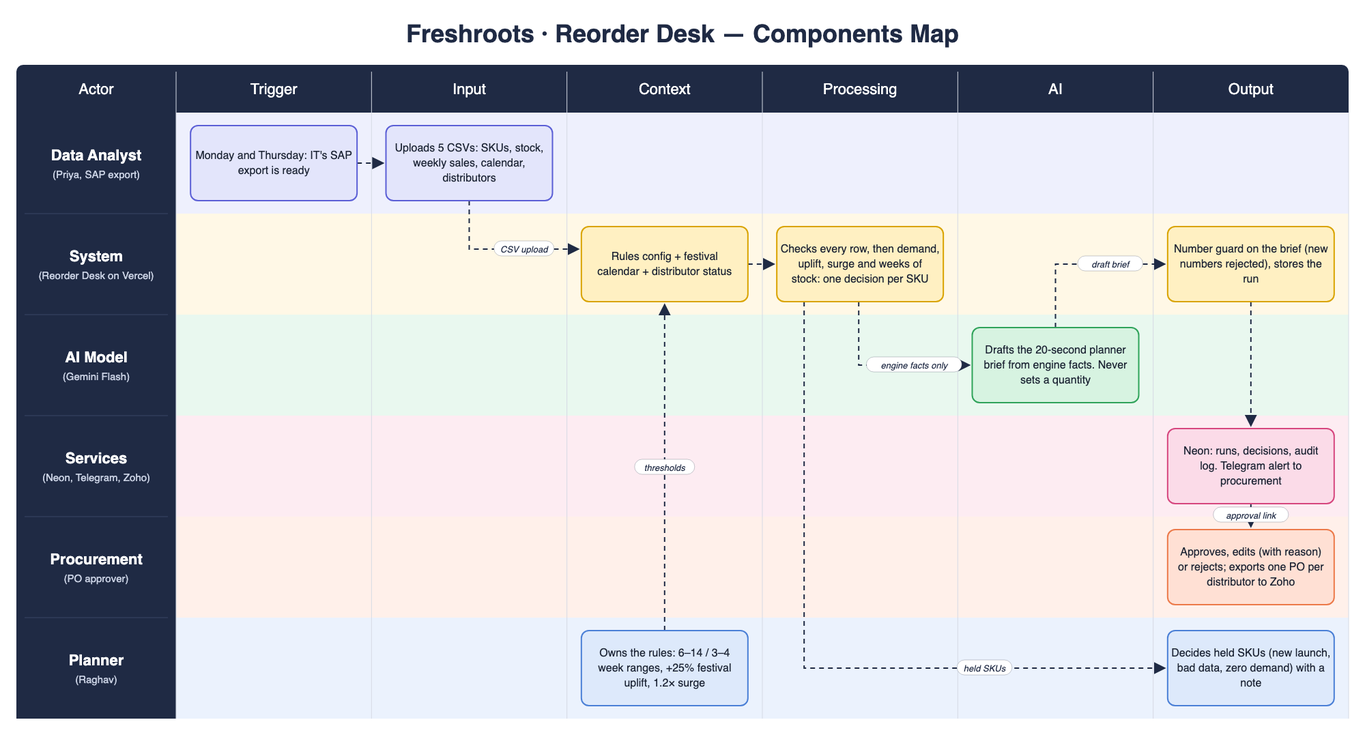
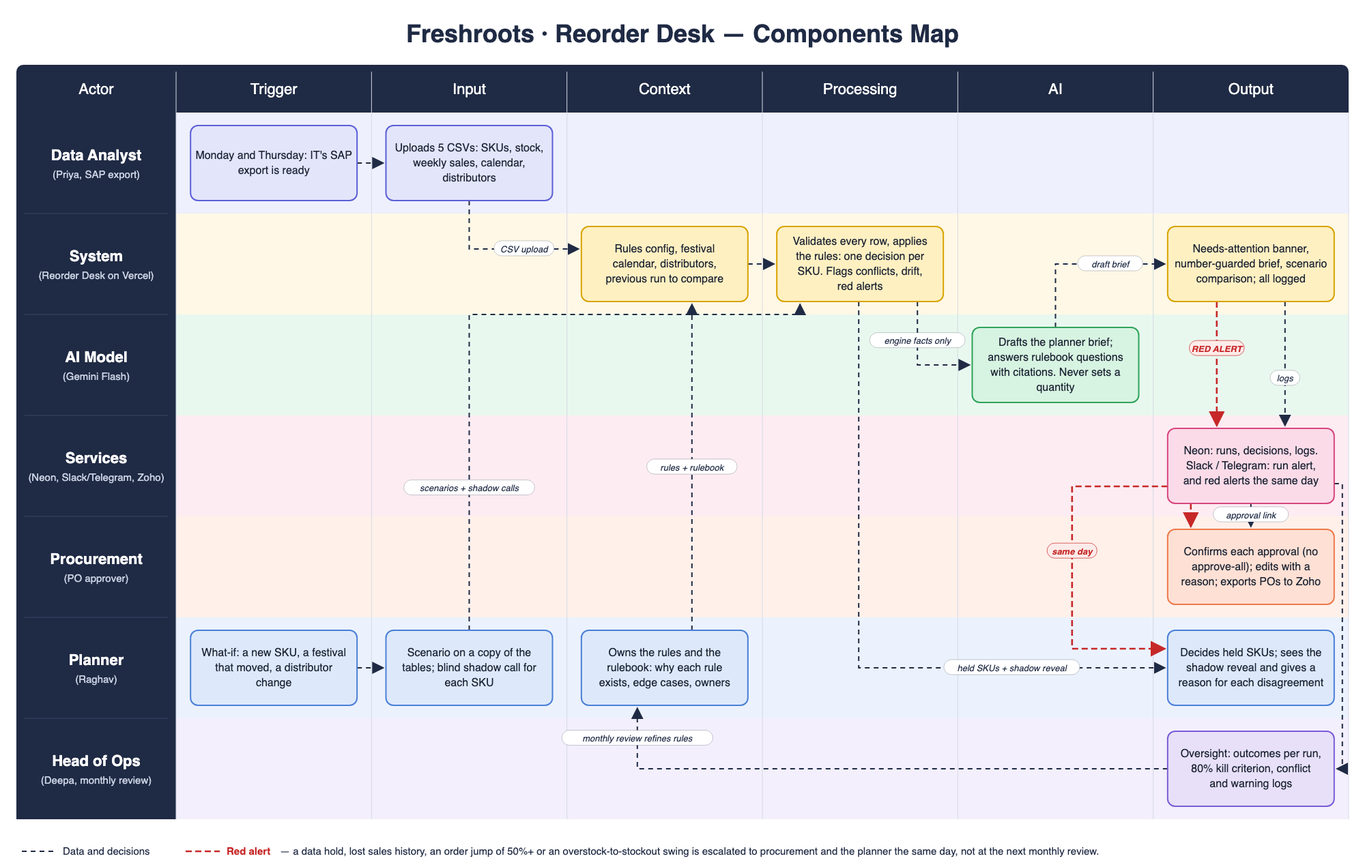
Update components map; lead alert messages with red alerts
Components map: adds Head of Ops (Oversight, 80% kill criterion, logs),
the planner's scenario and blind shadow-call inputs, the rulebook as
context, Gemini answering rulebook questions, and a red-alert escalation
path (data holds, lost history, 50%+ order jumps) to procurement and
the planner the same day, with a legend.

Procurement messages now start with a RED ALERT block listing data holds
and high-severity early warnings, matching the map.

diff --git a/deliverables/components_map.html b/deliverables/components_map.html
@@ -1,6 +1,6 @@
-<!doctype html><html><head><meta charset="utf-8"><title>Reorder Desk Components Map</title><style>html,body{margin:0;background:#fff}</style></head><body><svg xmlns="http://www.w3.org/2000/svg" viewBox="0 0 2000 1077" width="2000" height="1077" font-family="Segoe UI, Inter, Helvetica, Arial, sans-serif">
-<defs><marker id="head" viewBox="0 0 10 10" refX="9" refY="5" markerWidth="9" markerHeight="9" orient="auto-start-reverse"><path d="M0,0 L10,5 L0,10 z" fill="#1f2a44"/></marker></defs>
-<rect width="2000" height="1077" fill="#ffffff"/>
+<!doctype html><html><head><meta charset="utf-8"><title>Reorder Desk Components Map</title><style>html,body{margin:0;background:#fff}</style></head><body><svg xmlns="http://www.w3.org/2000/svg" viewBox="0 0 2000 1271" width="2000" height="1271" font-family="Segoe UI, Inter, Helvetica, Arial, sans-serif">
+<defs><marker id="head" viewBox="0 0 10 10" refX="9" refY="5" markerWidth="9" markerHeight="9" orient="auto-start-reverse"><path d="M0,0 L10,5 L0,10 z" fill="#1f2a44"/></marker><marker id="head-red" viewBox="0 0 10 10" refX="9" refY="5" markerWidth="9" markerHeight="9" orient="auto-start-reverse"><path d="M0,0 L10,5 L0,10 z" fill="#c62828"/></marker></defs>
+<rect width="2000" height="1271" fill="#ffffff"/>
 <text x="1000.0" y="62" text-anchor="middle" font-size="36" font-weight="700" fill="#1f2a44">Freshroots · Reorder Desk — Components Map</text>
 <rect x="258" y="165" width="1718" height="148" fill="#eef0fd"/>
 <rect x="24" y="165" width="234" height="148" fill="#1f2a44"/>
@@ -19,7 +19,7 @@
 <rect x="258" y="609" width="1718" height="148" fill="#fdecf2"/>
 <rect x="24" y="609" width="234" height="148" fill="#1f2a44"/>
 <text x="141.0" y="679.0" text-anchor="middle" font-size="22" font-weight="700" fill="#ffffff">Services</text>
-<text x="141.0" y="705.0" text-anchor="middle" font-size="15" fill="#c9d1e3">(Neon, Telegram, Zoho)</text>
+<text x="141.0" y="705.0" text-anchor="middle" font-size="15" fill="#c9d1e3">(Neon, Slack/Telegram, Zoho)</text>
 <line x1="36" x2="246" y1="609" y2="609" stroke="#3a4766"/>
 <rect x="258" y="757" width="1718" height="148" fill="#fff0ea"/>
 <rect x="24" y="757" width="234" height="148" fill="#1f2a44"/>
@@ -31,31 +31,43 @@
 <text x="141.0" y="975.0" text-anchor="middle" font-size="22" font-weight="700" fill="#ffffff">Planner</text>
 <text x="141.0" y="1001.0" text-anchor="middle" font-size="15" fill="#c9d1e3">(Raghav)</text>
 <line x1="36" x2="246" y1="905" y2="905" stroke="#3a4766"/>
+<rect x="258" y="1053" width="1718" height="148" fill="#f3effc"/>
+<rect x="24" y="1053" width="234" height="148" fill="#1f2a44"/>
+<text x="141.0" y="1123.0" text-anchor="middle" font-size="22" font-weight="700" fill="#ffffff">Head of Ops</text>
+<text x="141.0" y="1149.0" text-anchor="middle" font-size="15" fill="#c9d1e3">(Deepa, monthly review)</text>
+<line x1="36" x2="246" y1="1053" y2="1053" stroke="#3a4766"/>
 <rect x="24" y="95" width="1952" height="70" rx="10" fill="#1f2a44"/>
 <rect x="24" y="153" width="1952" height="12" fill="#1f2a44"/>
 <text x="141.0" y="138" text-anchor="middle" font-size="22" fill="#ffffff">Actor</text>
 <text x="401.16666666666663" y="138" text-anchor="middle" font-size="22" fill="#ffffff">Trigger</text>
-<line x1="258.0" x2="258.0" y1="105" y2="1053" stroke="#d5dae4" stroke-width="1"/>
+<line x1="258.0" x2="258.0" y1="105" y2="1201" stroke="#d5dae4" stroke-width="1"/>
 <text x="687.4999999999999" y="138" text-anchor="middle" font-size="22" fill="#ffffff">Input</text>
-<line x1="544.3333333333333" x2="544.3333333333333" y1="105" y2="1053" stroke="#d5dae4" stroke-width="1"/>
+<line x1="544.3333333333333" x2="544.3333333333333" y1="105" y2="1201" stroke="#d5dae4" stroke-width="1"/>
 <text x="973.8333333333333" y="138" text-anchor="middle" font-size="22" fill="#ffffff">Context</text>
-<line x1="830.6666666666666" x2="830.6666666666666" y1="105" y2="1053" stroke="#d5dae4" stroke-width="1"/>
+<line x1="830.6666666666666" x2="830.6666666666666" y1="105" y2="1201" stroke="#d5dae4" stroke-width="1"/>
 <text x="1260.1666666666667" y="138" text-anchor="middle" font-size="22" fill="#ffffff">Processing</text>
-<line x1="1117.0" x2="1117.0" y1="105" y2="1053" stroke="#d5dae4" stroke-width="1"/>
+<line x1="1117.0" x2="1117.0" y1="105" y2="1201" stroke="#d5dae4" stroke-width="1"/>
 <text x="1546.5" y="138" text-anchor="middle" font-size="22" fill="#ffffff">AI</text>
-<line x1="1403.3333333333333" x2="1403.3333333333333" y1="105" y2="1053" stroke="#d5dae4" stroke-width="1"/>
+<line x1="1403.3333333333333" x2="1403.3333333333333" y1="105" y2="1201" stroke="#d5dae4" stroke-width="1"/>
 <text x="1832.8333333333333" y="138" text-anchor="middle" font-size="22" fill="#ffffff">Output</text>
-<line x1="1689.6666666666665" x2="1689.6666666666665" y1="105" y2="1053" stroke="#d5dae4" stroke-width="1"/>
-<line x1="1976" x2="1976" y1="165" y2="1053" stroke="#d5dae4"/>
+<line x1="1689.6666666666665" x2="1689.6666666666665" y1="105" y2="1201" stroke="#d5dae4" stroke-width="1"/>
+<line x1="1976" x2="1976" y1="165" y2="1201" stroke="#d5dae4"/>
 <path d="M523.2,239.0 L561.5,239.0" fill="none" stroke="#1f2a44" stroke-width="2" stroke-dasharray="7 6" marker-end="url(#head)"/>
-<path d="M687.5,294.0 L687.5,365.0 L847.8,365.0" fill="none" stroke="#1f2a44" stroke-width="2" stroke-dasharray="7 6" marker-end="url(#head)"/><rect x="723.7" y="353.0" width="88.0" height="22" rx="11" fill="#ffffff" stroke="#1f2a44" stroke-opacity=".25"/><text x="767.7" y="369.5" text-anchor="middle" font-size="13" font-style="italic" fill="#1f2a44">CSV upload</text>
-<path d="M973.8,924.0 L973.8,446.0" fill="none" stroke="#1f2a44" stroke-width="2" stroke-dasharray="7 6" marker-end="url(#head)"/><rect x="929.8" y="673.0" width="88.0" height="22" rx="11" fill="#ffffff" stroke="#1f2a44" stroke-opacity=".25"/><text x="973.8" y="689.5" text-anchor="middle" font-size="13" font-style="italic" fill="#1f2a44">thresholds</text>
+<path d="M687.5,294.0 L687.5,365.0 L847.8,365.0" fill="none" stroke="#1f2a44" stroke-width="2" stroke-dasharray="7 6" marker-end="url(#head)"/><rect x="723.7" y="353.0" width="88.0" height="22" rx="11" fill="#ffffff" stroke="#1f2a44" stroke-opacity=".25"/><text x="767.7" y="369.5" text-anchor="middle" font-size="13" font-style="italic" font-weight="400" fill="#1f2a44">CSV upload</text>
 <path d="M1095.8,387.0 L1134.2,387.0" fill="none" stroke="#1f2a44" stroke-width="2" stroke-dasharray="7 6" marker-end="url(#head)"/>
-<path d="M1258.2,442.0 L1258.2,535.0 L1420.5,535.0" fill="none" stroke="#1f2a44" stroke-width="2" stroke-dasharray="7 6" marker-end="url(#head)"/><rect x="1269.4" y="523.0" width="139.8" height="22" rx="11" fill="#ffffff" stroke="#1f2a44" stroke-opacity=".25"/><text x="1339.3" y="539.5" text-anchor="middle" font-size="13" font-style="italic" fill="#1f2a44">engine facts only</text>
-<path d="M1546.5,480.0 L1546.5,387.0 L1706.8,387.0" fill="none" stroke="#1f2a44" stroke-width="2" stroke-dasharray="7 6" marker-end="url(#head)"/><rect x="1579.0" y="375.0" width="95.4" height="22" rx="11" fill="#ffffff" stroke="#1f2a44" stroke-opacity=".25"/><text x="1626.7" y="391.5" text-anchor="middle" font-size="13" font-style="italic" fill="#1f2a44">draft brief</text>
-<path d="M1832.8,442.0 L1832.8,624.0" fill="none" stroke="#1f2a44" stroke-width="2" stroke-dasharray="7 6" marker-end="url(#head)"/>
-<path d="M1832.8,738.0 L1832.8,772.0" fill="none" stroke="#1f2a44" stroke-width="2" stroke-dasharray="7 6" marker-end="url(#head)"/><rect x="1777.7" y="743.0" width="110.2" height="22" rx="11" fill="#ffffff" stroke="#1f2a44" stroke-opacity=".25"/><text x="1832.8" y="759.5" text-anchor="middle" font-size="13" font-style="italic" fill="#1f2a44">approval link</text>
-<path d="M1178.2,442.0 L1178.2,979.0 L1706.8,979.0" fill="none" stroke="#1f2a44" stroke-width="2" stroke-dasharray="7 6" marker-end="url(#head)"/><rect x="1402.2" y="967.0" width="80.6" height="22" rx="11" fill="#ffffff" stroke="#1f2a44" stroke-opacity=".25"/><text x="1442.5" y="983.5" text-anchor="middle" font-size="13" font-style="italic" fill="#1f2a44">held SKUs</text>
+<path d="M523.2,979.0 L561.5,979.0" fill="none" stroke="#1f2a44" stroke-width="2" stroke-dasharray="7 6" marker-end="url(#head)"/>
+<path d="M687.5,924.0 L687.5,461.0 L1172.2,461.0 L1172.2,446.0" fill="none" stroke="#1f2a44" stroke-width="2" stroke-dasharray="7 6" marker-end="url(#head)"/><rect x="591.7" y="703.6" width="191.6" height="22" rx="11" fill="#ffffff" stroke="#1f2a44" stroke-opacity=".25"/><text x="687.5" y="720.1" text-anchor="middle" font-size="13" font-style="italic" font-weight="400" fill="#1f2a44">scenarios + shadow calls</text>
+<path d="M1013.8,924.0 L1013.8,446.0" fill="none" stroke="#1f2a44" stroke-width="2" stroke-dasharray="7 6" marker-end="url(#head)"/><rect x="947.6" y="673.0" width="132.4" height="22" rx="11" fill="#ffffff" stroke="#1f2a44" stroke-opacity=".25"/><text x="1013.8" y="689.5" text-anchor="middle" font-size="13" font-style="italic" font-weight="400" fill="#1f2a44">rules + rulebook</text>
+<path d="M1344.2,442.0 L1344.2,535.0 L1420.5,535.0" fill="none" stroke="#1f2a44" stroke-width="2" stroke-dasharray="7 6" marker-end="url(#head)"/><rect x="1274.3" y="487.7" width="139.8" height="22" rx="11" fill="#ffffff" stroke="#1f2a44" stroke-opacity=".25"/><text x="1344.2" y="504.2" text-anchor="middle" font-size="13" font-style="italic" font-weight="400" fill="#1f2a44">engine facts only</text>
+<path d="M1546.5,480.0 L1546.5,387.0 L1706.8,387.0" fill="none" stroke="#1f2a44" stroke-width="2" stroke-dasharray="7 6" marker-end="url(#head)"/><rect x="1579.0" y="375.0" width="95.4" height="22" rx="11" fill="#ffffff" stroke="#1f2a44" stroke-opacity=".25"/><text x="1626.7" y="391.5" text-anchor="middle" font-size="13" font-style="italic" font-weight="400" fill="#1f2a44">draft brief</text>
+<path d="M1258.2,442.0 L1258.2,979.0 L1706.8,979.0" fill="none" stroke="#1f2a44" stroke-width="2" stroke-dasharray="7 6" marker-end="url(#head)"/><rect x="1383.0" y="967.0" width="199.0" height="22" rx="11" fill="#ffffff" stroke="#1f2a44" stroke-opacity=".25"/><text x="1482.5" y="983.5" text-anchor="middle" font-size="13" font-style="italic" font-weight="400" fill="#1f2a44">held SKUs + shadow reveal</text>
+<path d="M1882.8,442.0 L1882.8,624.0" fill="none" stroke="#1f2a44" stroke-width="2" stroke-dasharray="7 6" marker-end="url(#head)"/><rect x="1861.0" y="542.8" width="43.6" height="22" rx="11" fill="#ffffff" stroke="#1f2a44" stroke-opacity=".25"/><text x="1882.8" y="559.3" text-anchor="middle" font-size="13" font-style="italic" font-weight="400" fill="#1f2a44">logs</text>
+<path d="M1782.8,442.0 L1782.8,624.0" fill="none" stroke="#c62828" stroke-width="2.6" stroke-dasharray="9 5" marker-end="url(#head-red)"/><rect x="1742.5" y="499.2" width="80.6" height="22" rx="11" fill="#fdecea" stroke="#c62828" stroke-opacity=".7"/><text x="1782.8" y="515.7" text-anchor="middle" font-size="13" font-style="italic" font-weight="700" fill="#c62828">RED ALERT</text>
+<path d="M1832.8,738.0 L1832.8,772.0" fill="none" stroke="#1f2a44" stroke-width="2" stroke-dasharray="7 6" marker-end="url(#head)"/><rect x="1777.7" y="743.0" width="110.2" height="22" rx="11" fill="#ffffff" stroke="#1f2a44" stroke-opacity=".25"/><text x="1832.8" y="759.5" text-anchor="middle" font-size="13" font-style="italic" font-weight="400" fill="#1f2a44">approval link</text>
+<path d="M1744.8,738.0 L1744.8,772.0" fill="none" stroke="#c62828" stroke-width="2.6" stroke-dasharray="9 5" marker-end="url(#head-red)"/>
+<path d="M1710.8,713.0 L1570.8,713.0 L1570.8,951.0 L1706.8,951.0" fill="none" stroke="#c62828" stroke-width="2.6" stroke-dasharray="9 5" marker-end="url(#head-red)"/><rect x="1534.2" y="796.2" width="73.2" height="22" rx="11" fill="#fdecea" stroke="#c62828" stroke-opacity=".7"/><text x="1570.8" y="812.7" text-anchor="middle" font-size="13" font-style="italic" font-weight="700" fill="#c62828">same day</text>
+<path d="M1954.8,709.0 L1966.8,709.0 L1966.8,1127.0 L1958.8,1127.0" fill="none" stroke="#1f2a44" stroke-width="2" stroke-dasharray="7 6" marker-end="url(#head)"/>
+<path d="M1710.8,1127.0 L933.8,1127.0 L933.8,1038.0" fill="none" stroke="#1f2a44" stroke-width="2" stroke-dasharray="7 6" marker-end="url(#head)"/><rect x="823.2" y="1070.5" width="221.2" height="22" rx="11" fill="#ffffff" stroke="#1f2a44" stroke-opacity=".25"/><text x="933.8" y="1087.0" text-anchor="middle" font-size="13" font-style="italic" font-weight="400" fill="#1f2a44">monthly review refines rules</text>
 <rect x="279.16666666666663" y="184.0" width="244" height="110" rx="11" fill="#e3e5fb" stroke="#5b5fd6" stroke-width="2"/>
 <text x="401.16666666666663" y="233.0" text-anchor="middle" font-size="16" fill="#1b2333">Monday and Thursday: IT&#x27;s SAP</text>
 <text x="401.16666666666663" y="255.0" text-anchor="middle" font-size="16" fill="#1b2333">export is ready</text>
@@ -63,35 +75,55 @@
 <text x="687.4999999999999" y="222.0" text-anchor="middle" font-size="16" fill="#1b2333">Uploads 5 CSVs: SKUs, stock,</text>
 <text x="687.4999999999999" y="244.0" text-anchor="middle" font-size="16" fill="#1b2333">weekly sales, calendar,</text>
 <text x="687.4999999999999" y="266.0" text-anchor="middle" font-size="16" fill="#1b2333">distributors</text>
-<rect x="851.8333333333333" y="924.0" width="244" height="110" rx="11" fill="#dde9fb" stroke="#4a7fd6" stroke-width="2"/>
-<text x="973.8333333333333" y="962.0" text-anchor="middle" font-size="16" fill="#1b2333">Owns the rules: 6–14 / 3–4</text>
-<text x="973.8333333333333" y="984.0" text-anchor="middle" font-size="16" fill="#1b2333">week ranges, +25% festival</text>
-<text x="973.8333333333333" y="1006.0" text-anchor="middle" font-size="16" fill="#1b2333">uplift, 1.2× surge</text>
 <rect x="851.8333333333333" y="332.0" width="244" height="110" rx="11" fill="#fff0c2" stroke="#d9a300" stroke-width="2"/>
-<text x="973.8333333333333" y="381.0" text-anchor="middle" font-size="16" fill="#1b2333">Rules config + festival</text>
-<text x="973.8333333333333" y="403.0" text-anchor="middle" font-size="16" fill="#1b2333">calendar + distributor status</text>
+<text x="973.8333333333333" y="370.0" text-anchor="middle" font-size="16" fill="#1b2333">Rules config, festival</text>
+<text x="973.8333333333333" y="392.0" text-anchor="middle" font-size="16" fill="#1b2333">calendar, distributors,</text>
+<text x="973.8333333333333" y="414.0" text-anchor="middle" font-size="16" fill="#1b2333">previous run to compare</text>
 <rect x="1138.1666666666667" y="332.0" width="244" height="110" rx="11" fill="#fff0c2" stroke="#d9a300" stroke-width="2"/>
-<text x="1260.1666666666667" y="370.0" text-anchor="middle" font-size="16" fill="#1b2333">Checks every row, then demand,</text>
-<text x="1260.1666666666667" y="392.0" text-anchor="middle" font-size="16" fill="#1b2333">uplift, surge and weeks of</text>
-<text x="1260.1666666666667" y="414.0" text-anchor="middle" font-size="16" fill="#1b2333">stock: one decision per SKU</text>
-<rect x="1424.5" y="480.0" width="244" height="110" rx="11" fill="#d7f3e1" stroke="#2fa35a" stroke-width="2"/>
-<text x="1546.5" y="518.0" text-anchor="middle" font-size="16" fill="#1b2333">Drafts the 20-second planner</text>
-<text x="1546.5" y="540.0" text-anchor="middle" font-size="16" fill="#1b2333">brief from engine facts. Never</text>
-<text x="1546.5" y="562.0" text-anchor="middle" font-size="16" fill="#1b2333">sets a quantity</text>
+<text x="1260.1666666666667" y="359.0" text-anchor="middle" font-size="16" fill="#1b2333">Validates every row, applies</text>
+<text x="1260.1666666666667" y="381.0" text-anchor="middle" font-size="16" fill="#1b2333">the rules: one decision per</text>
+<text x="1260.1666666666667" y="403.0" text-anchor="middle" font-size="16" fill="#1b2333">SKU. Flags conflicts, drift,</text>
+<text x="1260.1666666666667" y="425.0" text-anchor="middle" font-size="16" fill="#1b2333">red alerts</text>
 <rect x="1710.8333333333333" y="332.0" width="244" height="110" rx="11" fill="#fff0c2" stroke="#d9a300" stroke-width="2"/>
-<text x="1832.8333333333333" y="370.0" text-anchor="middle" font-size="16" fill="#1b2333">Number guard on the brief (new</text>
-<text x="1832.8333333333333" y="392.0" text-anchor="middle" font-size="16" fill="#1b2333">numbers rejected), stores the</text>
-<text x="1832.8333333333333" y="414.0" text-anchor="middle" font-size="16" fill="#1b2333">run</text>
+<text x="1832.8333333333333" y="370.0" text-anchor="middle" font-size="16" fill="#1b2333">Needs-attention banner,</text>
+<text x="1832.8333333333333" y="392.0" text-anchor="middle" font-size="16" fill="#1b2333">number-guarded brief, scenario</text>
+<text x="1832.8333333333333" y="414.0" text-anchor="middle" font-size="16" fill="#1b2333">comparison; all logged</text>
+<rect x="1424.5" y="480.0" width="244" height="110" rx="11" fill="#d7f3e1" stroke="#2fa35a" stroke-width="2"/>
+<text x="1546.5" y="507.0" text-anchor="middle" font-size="16" fill="#1b2333">Drafts the planner brief;</text>
+<text x="1546.5" y="529.0" text-anchor="middle" font-size="16" fill="#1b2333">answers rulebook questions</text>
+<text x="1546.5" y="551.0" text-anchor="middle" font-size="16" fill="#1b2333">with citations. Never sets a</text>
+<text x="1546.5" y="573.0" text-anchor="middle" font-size="16" fill="#1b2333">quantity</text>
 <rect x="1710.8333333333333" y="628.0" width="244" height="110" rx="11" fill="#fbdbe8" stroke="#d6467e" stroke-width="2"/>
-<text x="1832.8333333333333" y="666.0" text-anchor="middle" font-size="16" fill="#1b2333">Neon: runs, decisions, audit</text>
-<text x="1832.8333333333333" y="688.0" text-anchor="middle" font-size="16" fill="#1b2333">log. Telegram alert to</text>
-<text x="1832.8333333333333" y="710.0" text-anchor="middle" font-size="16" fill="#1b2333">procurement</text>
+<text x="1832.8333333333333" y="666.0" text-anchor="middle" font-size="16" fill="#1b2333">Neon: runs, decisions, logs.</text>
+<text x="1832.8333333333333" y="688.0" text-anchor="middle" font-size="16" fill="#1b2333">Slack / Telegram: run alert,</text>
+<text x="1832.8333333333333" y="710.0" text-anchor="middle" font-size="16" fill="#1b2333">and red alerts the same day</text>
 <rect x="1710.8333333333333" y="776.0" width="244" height="110" rx="11" fill="#ffe0d4" stroke="#ec7a4a" stroke-width="2"/>
-<text x="1832.8333333333333" y="814.0" text-anchor="middle" font-size="16" fill="#1b2333">Approves, edits (with reason)</text>
-<text x="1832.8333333333333" y="836.0" text-anchor="middle" font-size="16" fill="#1b2333">or rejects; exports one PO per</text>
-<text x="1832.8333333333333" y="858.0" text-anchor="middle" font-size="16" fill="#1b2333">distributor to Zoho</text>
+<text x="1832.8333333333333" y="814.0" text-anchor="middle" font-size="16" fill="#1b2333">Confirms each approval (no</text>
+<text x="1832.8333333333333" y="836.0" text-anchor="middle" font-size="16" fill="#1b2333">approve-all); edits with a</text>
+<text x="1832.8333333333333" y="858.0" text-anchor="middle" font-size="16" fill="#1b2333">reason; exports POs to Zoho</text>
+<rect x="279.16666666666663" y="924.0" width="244" height="110" rx="11" fill="#dde9fb" stroke="#4a7fd6" stroke-width="2"/>
+<text x="401.16666666666663" y="962.0" text-anchor="middle" font-size="16" fill="#1b2333">What-if: a new SKU, a festival</text>
+<text x="401.16666666666663" y="984.0" text-anchor="middle" font-size="16" fill="#1b2333">that moved, a distributor</text>
+<text x="401.16666666666663" y="1006.0" text-anchor="middle" font-size="16" fill="#1b2333">change</text>
+<rect x="565.4999999999999" y="924.0" width="244" height="110" rx="11" fill="#dde9fb" stroke="#4a7fd6" stroke-width="2"/>
+<text x="687.4999999999999" y="962.0" text-anchor="middle" font-size="16" fill="#1b2333">Scenario on a copy of the</text>
+<text x="687.4999999999999" y="984.0" text-anchor="middle" font-size="16" fill="#1b2333">tables; blind shadow call for</text>
+<text x="687.4999999999999" y="1006.0" text-anchor="middle" font-size="16" fill="#1b2333">each SKU</text>
+<rect x="851.8333333333333" y="924.0" width="244" height="110" rx="11" fill="#dde9fb" stroke="#4a7fd6" stroke-width="2"/>
+<text x="973.8333333333333" y="962.0" text-anchor="middle" font-size="16" fill="#1b2333">Owns the rules and the</text>
+<text x="973.8333333333333" y="984.0" text-anchor="middle" font-size="16" fill="#1b2333">rulebook: why each rule</text>
+<text x="973.8333333333333" y="1006.0" text-anchor="middle" font-size="16" fill="#1b2333">exists, edge cases, owners</text>
 <rect x="1710.8333333333333" y="924.0" width="244" height="110" rx="11" fill="#dde9fb" stroke="#4a7fd6" stroke-width="2"/>
-<text x="1832.8333333333333" y="962.0" text-anchor="middle" font-size="16" fill="#1b2333">Decides held SKUs (new launch,</text>
-<text x="1832.8333333333333" y="984.0" text-anchor="middle" font-size="16" fill="#1b2333">bad data, zero demand) with a</text>
-<text x="1832.8333333333333" y="1006.0" text-anchor="middle" font-size="16" fill="#1b2333">note</text>
+<text x="1832.8333333333333" y="962.0" text-anchor="middle" font-size="16" fill="#1b2333">Decides held SKUs; sees the</text>
+<text x="1832.8333333333333" y="984.0" text-anchor="middle" font-size="16" fill="#1b2333">shadow reveal and gives a</text>
+<text x="1832.8333333333333" y="1006.0" text-anchor="middle" font-size="16" fill="#1b2333">reason for each disagreement</text>
+<rect x="1710.8333333333333" y="1072.0" width="244" height="110" rx="11" fill="#e7e0f8" stroke="#7a5bd6" stroke-width="2"/>
+<text x="1832.8333333333333" y="1110.0" text-anchor="middle" font-size="16" fill="#1b2333">Oversight: outcomes per run,</text>
+<text x="1832.8333333333333" y="1132.0" text-anchor="middle" font-size="16" fill="#1b2333">80% kill criterion, conflict</text>
+<text x="1832.8333333333333" y="1154.0" text-anchor="middle" font-size="16" fill="#1b2333">and warning logs</text>
+<line x1="32" x2="82" y1="1248.0" y2="1248.0" stroke="#1f2a44" stroke-width="2" stroke-dasharray="7 6"/>
+<text x="92" y="1253.0" font-size="15" fill="#1f2a44">Data and decisions</text>
+<line x1="272" x2="322" y1="1248.0" y2="1248.0" stroke="#c62828" stroke-width="2.6" stroke-dasharray="9 5"/>
+<text x="332" y="1253.0" font-size="15" fill="#c62828" font-weight="700">Red alert</text>
+<text x="410" y="1253.0" font-size="15" fill="#1f2a44">— a data hold, lost sales history, an order jump of 50%+ or an overstock-to-stockout swing is escalated to procurement and the planner the same day, not at the next monthly review.</text>
 </svg></body></html>

diff --git a/web/src/lib/notify.ts b/web/src/lib/notify.ts
@@ -9,12 +9,20 @@ const esc = (s: string) => s.replace(/&/g, "&amp;").replace(/</g, "&lt;").replac
 export function runMessage(run: RunRecord, alerts: Alert[] = []): { html: string; text: string } {
   const k = run.result.summary.operational_kpis;
   const high = alerts.filter((a) => a.severity === "high");
+  // Red alerts: things a person must act on today. Data holds and high-severity shifts.
+  const holds = run.result.recommendations.filter((r) => r.Data_Quality_Status === "ERROR");
+  const red = [
+    ...holds.map((r) => `${r.SKU_Name.replace(/^Freshroots\s+/i, "")}: held by a data check (${r.Review_Reasons.replace(/^data-quality hold \((.*)\)$/, "$1")}); no quantity until the planner decides`),
+    ...high.map((a) => `${a.name}: ${a.detail}`),
+  ];
   const head = `Freshroots reorder run · evaluated ${run.evaluation_date} · sales to ${run.result.sales_cutoff_week}`;
   const counts = `${k.immediate_reorder_skus} to reorder (${k.total_recommended_order_units.toLocaleString("en-IN")} units) · ${k.pause_order_skus} to pause · ${k.skus_requiring_manual_review} for planner review`;
-  const warn = alerts.length ? `${alerts.length} early warning${alerts.length > 1 ? "s" : ""}${high.length ? ` (${high.length} high)` : ""}:\n${alerts.slice(0, 5).map((a) => `• ${a.name}: ${a.detail}`).join("\n")}` : "";
+  const medium = alerts.filter((a) => a.severity !== "high");
+  const redText = red.length ? `RED ALERT · ${red.length} item${red.length > 1 ? "s" : ""} to act on today:\n${red.slice(0, 6).map((t) => `• ${t}`).join("\n")}` : "";
+  const warn = medium.length ? `${medium.length} early warning${medium.length > 1 ? "s" : ""}:\n${medium.slice(0, 4).map((a) => `• ${a.name}: ${a.detail}`).join("\n")}` : "";
   const tail = "Nothing is ordered until someone approves it in the app.";
-  const text = [head, run.brief?.headline ?? "", counts, warn, tail].filter(Boolean).join("\n");
-  const html = [`<b>${esc(head)}</b>`, run.brief ? esc(run.brief.headline) : "", esc(counts), warn ? `<b>⚠ ${esc(warn)}</b>` : "", esc(tail)].filter(Boolean).join("\n");
+  const text = [redText, head, run.brief?.headline ?? "", counts, warn, tail].filter(Boolean).join("\n");
+  const html = [redText ? `🔴 <b>${esc(redText)}</b>` : "", `<b>${esc(head)}</b>`, run.brief ? esc(run.brief.headline) : "", esc(counts), warn ? `⚠ ${esc(warn)}` : "", esc(tail)].filter(Boolean).join("\n");
   return { html, text };
 }
 

diff --git a/web/tests/notify.test.ts b/web/tests/notify.test.ts
@@ -1,0 +1,28 @@
+import { readFileSync } from "node:fs";
+import path from "node:path";
+import { describe, expect, it } from "vitest";
+import { compareRuns } from "@/lib/compare";
+import { runEngine, type EngineInputs } from "@/lib/engine/engine";
+import { runMessage } from "@/lib/notify";
+import { applyScenario } from "@/lib/scenario";
+import type { RunRecord } from "@/lib/types";
+
+const DATA = path.resolve(import.meta.dirname, "..", "data");
+const read = (f: string) => readFileSync(path.join(DATA, f), "utf8");
+const inputs: EngineInputs = { sku_master: read("sku_master.csv"), current_inventory: read("current_inventory.csv"), weekly_sales: read("weekly_sales.csv"), calendar: read("calendar.csv"), distributor_master: read("distributor_master.csv") };
+const asRun = (id: string, inp: EngineInputs): RunRecord => ({ id, created_at: "", created_by: "t", source: "upload", label: id, evaluation_date: "2026-10-22", inputs: inp, input_meta: [], result: runEngine(inp, "2026-10-22"), brief: null });
+
+describe("red alerts in the procurement message", () => {
+  it("leads with data holds and high-severity shifts", () => {
+    const base = asRun("base", inputs);
+    const next = asRun("next", applyScenario(inputs, { sku_id: "SKU009", remove_history: true }).inputs);
+    const { text, html } = runMessage(next, compareRuns(base, next).alerts);
+    expect(text.split("\n")[0]).toBe("RED ALERT · 2 items to act on today:");
+    expect(text).toContain("Chia Seeds 200g: held by a data check (INSUFFICIENT_HISTORY)");
+    expect(text).toContain("Chia Seeds 200g: Had 12 weeks of sales history; now 0.");
+    expect(html.startsWith("🔴 <b>RED ALERT")).toBe(true);
+  });
+  it("has no red alert on a clean run", () => {
+    expect(runMessage(asRun("base", inputs)).text).not.toContain("RED ALERT");
+  });
+});

diff --git a/scripts/components_map.py b/scripts/components_map.py
@@ -3,7 +3,7 @@
 
 Writes deliverables/components_map.svg and .html; render a PNG with headless Chrome:
   "/Applications/Google Chrome.app/Contents/MacOS/Google Chrome" --headless=new \
-    --screenshot=deliverables/components_map.png --window-size=2000,1110 deliverables/components_map.html
+    --screenshot=deliverables/components_map.png --window-size=2000,1225 deliverables/components_map.html
 """
 from __future__ import annotations
 
@@ -20,29 +20,35 @@ COL_W = (W - 24 - (ACTOR_X + ACTOR_W)) / len(COLS)
 ROW_H = 148
 BOX_W, BOX_H = 244, 110
 NAVY = "#1f2a44"
+RED = "#c62828"  # red alerts: critical issues escalated to people the same day
+LEGEND_H = 46
 
 ROWS = [  # name, subtitle, lane tint, box fill, box stroke
     ("Data Analyst", "(Priya, SAP export)", "#eef0fd", "#e3e5fb", "#5b5fd6"),
     ("System", "(Reorder Desk on Vercel)", "#fff8e6", "#fff0c2", "#d9a300"),
     ("AI Model", "(Gemini Flash)", "#e9f8ef", "#d7f3e1", "#2fa35a"),
-    ("Services", "(Neon, Telegram, Zoho)", "#fdecf2", "#fbdbe8", "#d6467e"),
+    ("Services", "(Neon, Slack/Telegram, Zoho)", "#fdecf2", "#fbdbe8", "#d6467e"),
     ("Procurement", "(PO approver)", "#fff0ea", "#ffe0d4", "#ec7a4a"),
     ("Planner", "(Raghav)", "#ebf2fd", "#dde9fb", "#4a7fd6"),
+    ("Head of Ops", "(Deepa, monthly review)", "#f3effc", "#e7e0f8", "#7a5bd6"),
 ]
 R = {name: i for i, (name, *_rest) in enumerate(ROWS)}
 C = {name: i for i, name in enumerate(COLS)}
 
-BOXES = {  # (row, col): text
+BOXES = {  # (row, col): text, at most four lines
     ("Data Analyst", "Trigger"): "Monday and Thursday: IT's SAP export is ready",
     ("Data Analyst", "Input"): "Uploads 5 CSVs: SKUs, stock, weekly sales, calendar, distributors",
-    ("Planner", "Context"): "Owns the rules: 6–14 / 3–4 week ranges, +25% festival uplift, 1.2× surge",
-    ("System", "Context"): "Rules config + festival calendar + distributor status",
-    ("System", "Processing"): "Checks every row, then demand, uplift, surge and weeks of stock: one decision per SKU",
-    ("AI Model", "AI"): "Drafts the 20-second planner brief from engine facts. Never sets a quantity",
-    ("System", "Output"): "Number guard on the brief (new numbers rejected), stores the run",
-    ("Services", "Output"): "Neon: runs, decisions, audit log. Telegram alert to procurement",
-    ("Procurement", "Output"): "Approves, edits (with reason) or rejects; exports one PO per distributor to Zoho",
-    ("Planner", "Output"): "Decides held SKUs (new launch, bad data, zero demand) with a note",
+    ("System", "Context"): "Rules config, festival calendar, distributors, previous run to compare",
+    ("System", "Processing"): "Validates every row, applies the rules: one decision per SKU. Flags conflicts, drift, red alerts",
+    ("System", "Output"): "Needs-attention banner, number-guarded brief, scenario comparison; all logged",
+    ("AI Model", "AI"): "Drafts the planner brief; answers rulebook questions with citations. Never sets a quantity",
+    ("Services", "Output"): "Neon: runs, decisions, logs. Slack / Telegram: run alert, and red alerts the same day",
+    ("Procurement", "Output"): "Confirms each approval (no approve-all); edits with a reason; exports POs to Zoho",
+    ("Planner", "Trigger"): "What-if: a new SKU, a festival that moved, a distributor change",
+    ("Planner", "Input"): "Scenario on a copy of the tables; blind shadow call for each SKU",
+    ("Planner", "Context"): "Owns the rules and the rulebook: why each rule exists, edge cases, owners",
+    ("Planner", "Output"): "Decides held SKUs; sees the shadow reveal and gives a reason for each disagreement",
+    ("Head of Ops", "Output"): "Oversight: outcomes per run, 80% kill criterion, conflict and warning logs",
 }
 
 
@@ -62,22 +68,25 @@ def mid_y(row: str) -> float:
     return HEAD_Y + HEAD_H + R[row] * ROW_H + ROW_H / 2
 
 
-def arrow(points, label: str | None = None, label_at: int = 0) -> str:
+def arrow(points, label: str | None = None, label_at: int = 0, color: str = NAVY, at: float = 0.5) -> str:
     d = "M" + " L".join(f"{x:.1f},{y:.1f}" for x, y in points)
-    out = f'<path d="{d}" fill="none" stroke="{NAVY}" stroke-width="2" stroke-dasharray="7 6" marker-end="url(#head)"/>'
+    red = color == RED
+    out = (f'<path d="{d}" fill="none" stroke="{color}" stroke-width="{2.6 if red else 2}" stroke-dasharray="{"9 5" if red else "7 6"}" '
+           f'marker-end="url(#{"head-red" if red else "head"})"/>')
     if label:
         (x1, y1), (x2, y2) = points[label_at], points[label_at + 1]
-        lx, ly = (x1 + x2) / 2, (y1 + y2) / 2
+        lx, ly = x1 + (x2 - x1) * at, y1 + (y2 - y1) * at
         tw = len(label) * 7.4 + 14
-        out += (f'<rect x="{lx - tw / 2:.1f}" y="{ly - 12:.1f}" width="{tw:.1f}" height="22" rx="11" fill="#ffffff" stroke="{NAVY}" stroke-opacity=".25"/>'
-                f'<text x="{lx:.1f}" y="{ly + 4.5:.1f}" text-anchor="middle" font-size="13" font-style="italic" fill="{NAVY}">{escape(label)}</text>')
+        out += (f'<rect x="{lx - tw / 2:.1f}" y="{ly - 12:.1f}" width="{tw:.1f}" height="22" rx="11" fill="{"#fdecea" if red else "#ffffff"}" stroke="{color}" stroke-opacity="{".7" if red else ".25"}"/>'
+                f'<text x="{lx:.1f}" y="{ly + 4.5:.1f}" text-anchor="middle" font-size="13" font-style="italic" font-weight="{"700" if red else "400"}" fill="{color}">{escape(label)}</text>')
     return out
 
 
 def build() -> str:
-    H = HEAD_Y + HEAD_H + len(ROWS) * ROW_H + 24
+    H = HEAD_Y + HEAD_H + len(ROWS) * ROW_H + 24 + LEGEND_H
     s = [f'<svg xmlns="http://www.w3.org/2000/svg" viewBox="0 0 {W} {H}" width="{W}" height="{H}" font-family="Segoe UI, Inter, Helvetica, Arial, sans-serif">',
-         f'<defs><marker id="head" viewBox="0 0 10 10" refX="9" refY="5" markerWidth="9" markerHeight="9" orient="auto-start-reverse"><path d="M0,0 L10,5 L0,10 z" fill="{NAVY}"/></marker></defs>',
+         f'<defs><marker id="head" viewBox="0 0 10 10" refX="9" refY="5" markerWidth="9" markerHeight="9" orient="auto-start-reverse"><path d="M0,0 L10,5 L0,10 z" fill="{NAVY}"/></marker>'
+         f'<marker id="head-red" viewBox="0 0 10 10" refX="9" refY="5" markerWidth="9" markerHeight="9" orient="auto-start-reverse"><path d="M0,0 L10,5 L0,10 z" fill="{RED}"/></marker></defs>',
          f'<rect width="{W}" height="{H}" fill="#ffffff"/>',
          f'<text x="{W / 2}" y="62" text-anchor="middle" font-size="36" font-weight="700" fill="{NAVY}">Freshroots · Reorder Desk — Components Map</text>']
     grid_top, grid_bottom = HEAD_Y + HEAD_H, HEAD_Y + HEAD_H + len(ROWS) * ROW_H
@@ -108,31 +117,53 @@ def build() -> str:
     out_l, out_t, out_r, out_b = b("System", "Output")
     in_l, in_t, in_r, in_b = b("Data Analyst", "Input")
     tr_l, tr_t, tr_r, tr_b = b("Data Analyst", "Trigger")
+    pt_l, pt_t, pt_r, pt_b = b("Planner", "Trigger")
+    pi_l, pi_t, pi_r, pi_b = b("Planner", "Input")
     rc_l, rc_t, rc_r, rc_b = b("Planner", "Context")
     sv_l, sv_t, sv_r, sv_b = b("Services", "Output")
     pc_l, pc_t, pc_r, pc_b = b("Procurement", "Output")
     po_l, po_t, po_r, po_b = b("Planner", "Output")
+    ho_l, ho_t, ho_r, ho_b = b("Head of Ops", "Output")
     cx = lambda l, r: (l + r) / 2  # noqa: E731
+    gutter_ai = HEAD_Y + HEAD_H + R["AI Model"] * ROW_H  # boundary between the System and AI lanes
     s += [
         arrow([(tr_r, mid_y("Data Analyst")), (in_l - 4, mid_y("Data Analyst"))]),
         arrow([(cx(in_l, in_r), in_b), (cx(in_l, in_r), mid_y("System") - 22), (ctx_l - 4, mid_y("System") - 22)], "CSV upload", 1),
-        arrow([(cx(rc_l, rc_r), rc_t), (cx(rc_l, rc_r), ctx_b + 4)], "thresholds", 0),
         arrow([(ctx_r, mid_y("System")), (pr_l - 4, mid_y("System"))]),
-        arrow([(pr_l + 120, pr_b), (pr_l + 120, mid_y("AI Model")), (ai_l - 4, mid_y("AI Model"))], "engine facts only", 1),
+        # planner: what-if and shadow calls feed the engine, entering Processing at its left edge
+        arrow([(pt_r, mid_y("Planner")), (pi_l - 4, mid_y("Planner"))]),
+        arrow([(cx(pi_l, pi_r), pi_t), (cx(pi_l, pi_r), gutter_ai), (pr_l + 34, gutter_ai), (pr_l + 34, pr_b + 4)], "scenarios + shadow calls", 0, at=0.45),
+        arrow([(cx(rc_l, rc_r) + 40, rc_t), (cx(rc_l, rc_r) + 40, ctx_b + 4)], "rules + rulebook", 0),
+        arrow([(pr_l + 206, pr_b), (pr_l + 206, mid_y("AI Model")), (ai_l - 4, mid_y("AI Model"))], "engine facts only", 0, at=0.62),
         arrow([(cx(ai_l, ai_r), ai_t), (cx(ai_l, ai_r), mid_y("System")), (out_l - 4, mid_y("System"))], "draft brief", 1),
-        arrow([(cx(out_l, out_r), out_b), (cx(out_l, out_r), sv_t - 4)]),
+        arrow([(pr_l + 120, pr_b), (pr_l + 120, mid_y("Planner")), (po_l - 4, mid_y("Planner"))], "held SKUs + shadow reveal", 1),
+        arrow([(cx(out_l, out_r) + 50, out_b), (cx(out_l, out_r) + 50, sv_t - 4)], "logs", 0, at=0.62),
+        # red alerts: data hold, lost history, 50%+ order jump, overstock-to-stockout swing
+        arrow([(cx(out_l, out_r) - 50, out_b), (cx(out_l, out_r) - 50, sv_t - 4)], "RED ALERT", 0, color=RED, at=0.38),
         arrow([(cx(sv_l, sv_r), sv_b), (cx(sv_l, sv_r), pc_t - 4)], "approval link", 0),
-        arrow([(pr_l + 40, pr_b), (pr_l + 40, mid_y("Planner")), (po_l - 4, mid_y("Planner"))], "held SKUs", 1),
+        arrow([(sv_l + 34, sv_b), (sv_l + 34, pc_t - 4)], None, color=RED),
+        arrow([(sv_l, mid_y("Services") + 30), (sv_l - 140, mid_y("Services") + 30), (sv_l - 140, mid_y("Planner") - 28), (po_l - 4, mid_y("Planner") - 28)], "same day", 1, color=RED, at=0.4),
+        # logs feed Oversight: down the right-hand gutter, past the procurement and planner boxes
+        arrow([(sv_r, mid_y("Services") + 26), (sv_r + 12, mid_y("Services") + 26), (sv_r + 12, mid_y("Head of Ops")), (ho_r + 4, mid_y("Head of Ops"))]),
+        # the monthly review closes the loop back into the rules
+        arrow([(ho_l, mid_y("Head of Ops")), (cx(rc_l, rc_r) - 40, mid_y("Head of Ops")), (cx(rc_l, rc_r) - 40, rc_b + 4)], "monthly review refines rules", 1),
     ]
     # boxes
     for (row, col), text in BOXES.items():
         _n, _s, _t, fill, stroke = ROWS[R[row]]
         l, t, r_, bt = box(row, col)
         lines = textwrap.wrap(text, 30)
+        assert len(lines) <= 4, f"box text too long: {text}"
         s.append(f'<rect x="{l}" y="{t}" width="{BOX_W}" height="{BOX_H}" rx="11" fill="{fill}" stroke="{stroke}" stroke-width="2"/>')
         y0 = t + BOX_H / 2 - (len(lines) - 1) * 11 + 5
         for k, line in enumerate(lines):
             s.append(f'<text x="{(l + r_) / 2}" y="{y0 + k * 22}" text-anchor="middle" font-size="16" fill="#1b2333">{escape(line)}</text>')
+    ly = grid_bottom + 24 + LEGEND_H / 2
+    s.append(f'<line x1="{ACTOR_X + 8}" x2="{ACTOR_X + 58}" y1="{ly}" y2="{ly}" stroke="{NAVY}" stroke-width="2" stroke-dasharray="7 6"/>')
+    s.append(f'<text x="{ACTOR_X + 68}" y="{ly + 5}" font-size="15" fill="{NAVY}">Data and decisions</text>')
+    s.append(f'<line x1="{ACTOR_X + 248}" x2="{ACTOR_X + 298}" y1="{ly}" y2="{ly}" stroke="{RED}" stroke-width="2.6" stroke-dasharray="9 5"/>')
+    s.append(f'<text x="{ACTOR_X + 308}" y="{ly + 5}" font-size="15" fill="{RED}" font-weight="700">Red alert</text>')
+    s.append(f'<text x="{ACTOR_X + 386}" y="{ly + 5}" font-size="15" fill="{NAVY}">— a data hold, lost sales history, an order jump of 50%+ or an overstock-to-stockout swing is escalated to procurement and the planner the same day, not at the next monthly review.</text>')
     s.append("</svg>")
     return "\n".join(s)
 
